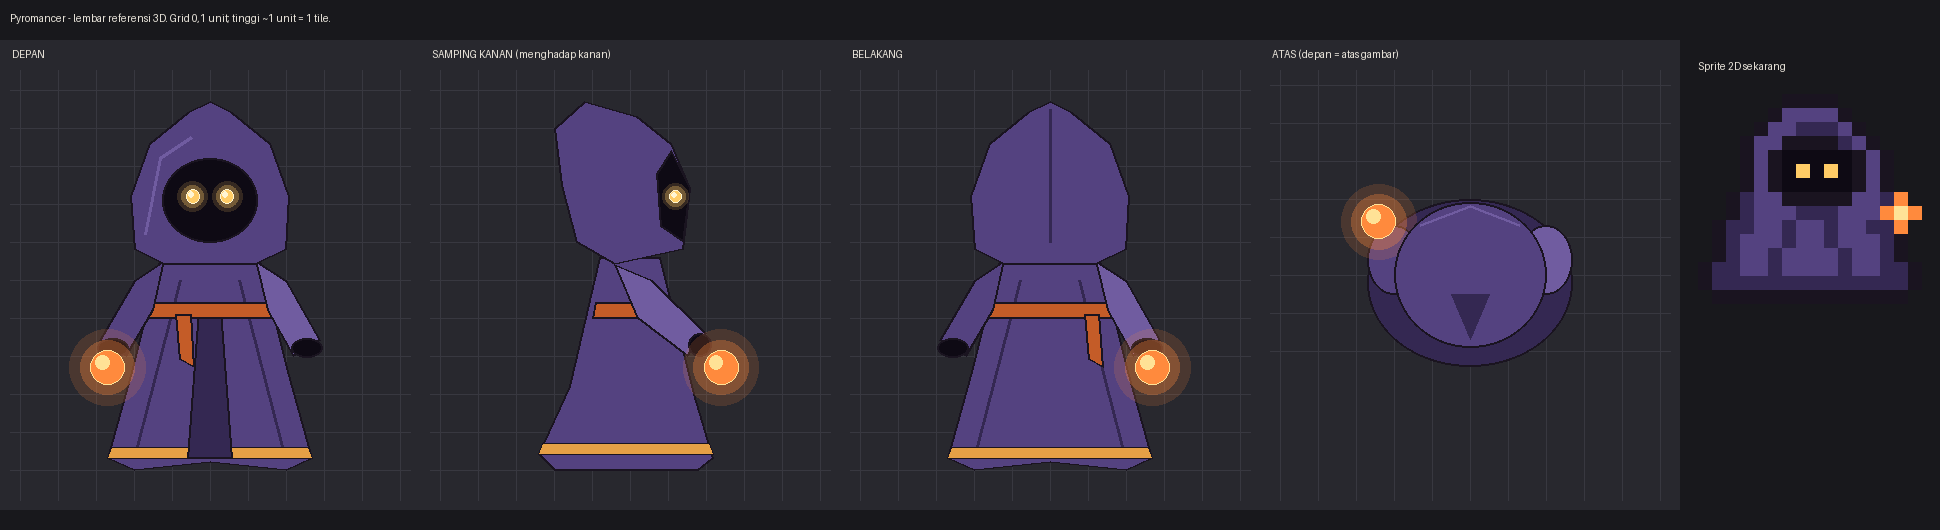
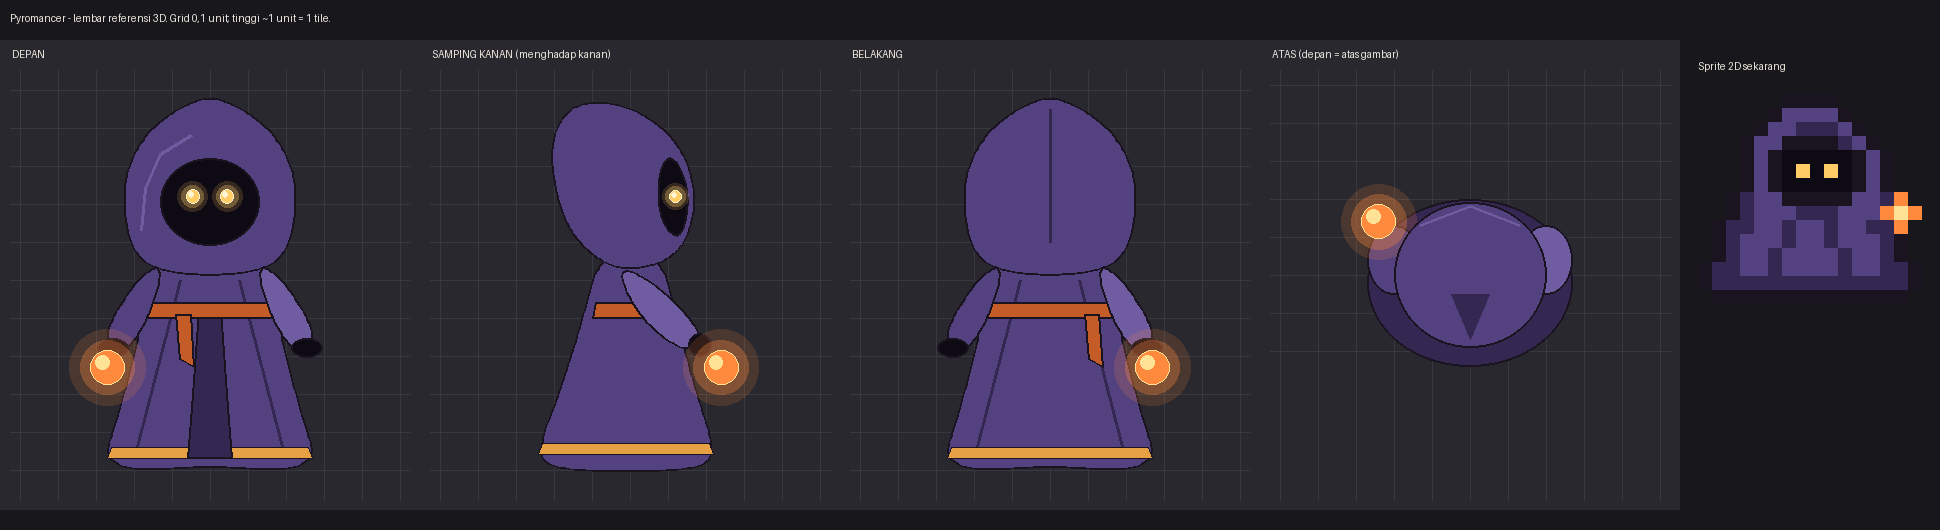
art(3d): lembar referensi Pyromancer dihaluskan

diff --git a/ArtSource/scripts/m3d_pyromancer_ref.py b/ArtSource/scripts/m3d_pyromancer_ref.py
@@ -16,6 +16,17 @@ BG, GRID = (40, 40, 46), (56, 56, 64)
 S, W, H = 380, 420, 470
 
 
+def chaikin(ps, n=4):
+    """Haluskan poligon tertutup dengan memotong setiap sudut (algoritma Chaikin)."""
+    for _ in range(n):
+        out = []
+        for i in range(len(ps)):
+            (x0, z0), (x1, z1) = ps[i], ps[(i + 1) % len(ps)]
+            out += [(0.75 * x0 + 0.25 * x1, 0.75 * z0 + 0.25 * z1), (0.25 * x0 + 0.75 * x1, 0.25 * z0 + 0.75 * z1)]
+        ps = out
+    return ps
+
+
 class Panel:
     def __init__(self, title, top=False):
         self.img = Image.new('RGB', (W, H), BG)
@@ -29,7 +40,9 @@ class Panel:
         self.d.text((12, 8), title, fill=(235, 230, 220))
 
     def p(self, x, z): return (self.cx + x * S, self.base - z * S)
-    def poly(self, ps, fill, outline=INK, w=2): self.d.polygon([self.p(*q) for q in ps], fill=fill, outline=outline, width=w)
+    def poly(self, ps, fill, outline=INK, w=2, soft=True):
+        if soft and len(ps) > 3: ps = chaikin(ps)
+        self.d.polygon([self.p(*q) for q in ps], fill=fill, outline=outline, width=w)
     def ell(self, c, rx, rz, fill, outline=INK, w=2):
         x, y = self.p(*c)
         self.d.ellipse([x - rx * S, y - rz * S, x + rx * S, y + rz * S], fill=fill, outline=outline, width=w)
@@ -47,14 +60,15 @@ class Panel:
 
 
 def robe_front(P, back=False):
-    P.poly([(-0.13, 0.56), (0.13, 0.56), (0.21, 0.25), (0.27, 0.03), (0.2, 0.0), (0.0, 0.02), (-0.2, 0.0), (-0.27, 0.03), (-0.21, 0.25)], ROBE)
+    P.poly([(-0.13, 0.57), (0.0, 0.58), (0.13, 0.57), (0.17, 0.45), (0.2, 0.3), (0.25, 0.12), (0.28, 0.03), (0.2, -0.005),
+            (0.0, 0.01), (-0.2, -0.005), (-0.28, 0.03), (-0.25, 0.12), (-0.2, 0.3), (-0.17, 0.45)], ROBE)
     for x in (-0.13, 0.13): P.line([(x * 0.6, 0.5), (x * 1.5, 0.04)], ROBE_D, 3)     # lipatan kain
-    P.poly([(-0.27, 0.03), (0.27, 0.03), (0.26, 0.06), (-0.26, 0.06)], TRIM, outline=INK, w=1)  # pinggiran rune
+    P.poly([(-0.27, 0.03), (0.27, 0.03), (0.26, 0.06), (-0.26, 0.06)], TRIM, outline=INK, w=1, soft=False)  # pinggiran rune
     if not back:
-        P.poly([(-0.03, 0.42), (0.03, 0.42), (0.06, 0.03), (-0.06, 0.03)], ROBE_D)        # belahan depan
-    P.poly([(-0.16, 0.44), (0.16, 0.44), (0.17, 0.4), (-0.17, 0.4)], SASH)              # selempang
+        P.poly([(-0.03, 0.42), (0.03, 0.42), (0.045, 0.2), (0.06, 0.03), (-0.06, 0.03), (-0.045, 0.2)], ROBE_D, soft=False)  # belahan depan
+    P.poly([(-0.16, 0.44), (0.16, 0.44), (0.17, 0.4), (-0.17, 0.4)], SASH, soft=False)              # selempang
     tail_x = -0.09 if not back else 0.09
-    P.poly([(tail_x, 0.41), (tail_x + 0.04, 0.41), (tail_x + 0.05, 0.27), (tail_x + 0.01, 0.29)], SASH)
+    P.poly([(tail_x, 0.41), (tail_x + 0.04, 0.41), (tail_x + 0.05, 0.27), (tail_x + 0.01, 0.29)], SASH, soft=False)
 
 
 def sleeves_front(P, ember_x, back=False):
@@ -65,14 +79,14 @@ def sleeves_front(P, ember_x, back=False):
 
 
 def hood_front(P, back=False):
-    P.poly([(-0.2, 0.58), (-0.21, 0.72), (-0.16, 0.86), (-0.06, 0.94), (0.0, 0.97), (0.06, 0.94),
-            (0.16, 0.86), (0.21, 0.72), (0.2, 0.58), (0.12, 0.54), (-0.12, 0.54)], ROBE)
+    P.poly([(-0.2, 0.56), (-0.23, 0.68), (-0.22, 0.8), (-0.16, 0.9), (-0.07, 0.96), (0.0, 0.985), (0.07, 0.96),
+            (0.16, 0.9), (0.22, 0.8), (0.23, 0.68), (0.2, 0.56), (0.12, 0.52), (0.0, 0.51), (-0.12, 0.52)], ROBE)
     if back:
         P.line([(0, 0.95), (0, 0.6)], ROBE_D, 3)                                         # jahitan belakang
         return
-    P.ell((0, 0.71), 0.125, 0.11, FACE)                                                  # wajah gelap
+    P.ell((0, 0.705), 0.13, 0.115, FACE)                                                  # wajah gelap
     for s in (1, -1): P.glow((s * 0.045, 0.72), 0.018, EYE, (255, 245, 210))
-    P.line([(-0.17, 0.62), (-0.13, 0.82), (-0.05, 0.875)], ROBE_L, 3)                    # tepi kerudung terang
+    P.line([(-0.18, 0.63), (-0.17, 0.74), (-0.13, 0.83), (-0.05, 0.88)], ROBE_L, 3)                    # tepi kerudung terang
 
 
 def view_front():
@@ -90,12 +104,13 @@ def view_back():
 
 def view_side():
     P = Panel('SAMPING KANAN (menghadap kanan)')
-    P.poly([(-0.08, 0.56), (0.08, 0.56), (0.17, 0.2), (0.22, 0.03), (0.18, 0.0), (-0.2, 0.0), (-0.24, 0.04), (-0.16, 0.22)], ROBE)
-    P.poly([(-0.24, 0.04), (0.22, 0.04), (0.21, 0.07), (-0.23, 0.07)], TRIM, outline=INK, w=1)
-    P.poly([(-0.09, 0.44), (0.09, 0.44), (0.1, 0.4), (-0.1, 0.4)], SASH)
+    P.poly([(-0.08, 0.57), (0.08, 0.57), (0.12, 0.42), (0.17, 0.22), (0.23, 0.04), (0.17, -0.005), (-0.19, -0.005),
+            (-0.25, 0.04), (-0.18, 0.22), (-0.12, 0.42)], ROBE)
+    P.poly([(-0.24, 0.04), (0.22, 0.04), (0.21, 0.07), (-0.23, 0.07)], TRIM, outline=INK, w=1, soft=False)
+    P.poly([(-0.09, 0.44), (0.09, 0.44), (0.1, 0.4), (-0.1, 0.4)], SASH, soft=False)
     # kerudung dari samping: ujung tertarik ke belakang, wajah gelap di depan
-    P.poly([(0.14, 0.58), (0.16, 0.74), (0.11, 0.86), (0.02, 0.93), (-0.12, 0.97), (-0.2, 0.9),
-            (-0.18, 0.75), (-0.14, 0.6), (-0.04, 0.54)], ROBE)
+    P.poly([(0.13, 0.57), (0.17, 0.66), (0.17, 0.76), (0.13, 0.86), (0.04, 0.94), (-0.08, 0.975), (-0.17, 0.95),
+            (-0.21, 0.86), (-0.2, 0.74), (-0.16, 0.62), (-0.06, 0.53), (0.05, 0.53)], ROBE)
     P.poly([(0.16, 0.74), (0.11, 0.84), (0.07, 0.78), (0.08, 0.64), (0.14, 0.6)], FACE)
     P.glow((0.12, 0.72), 0.016, EYE, (255, 245, 210))
     # lengan kanan (dekat) ke depan, bara di ujung
